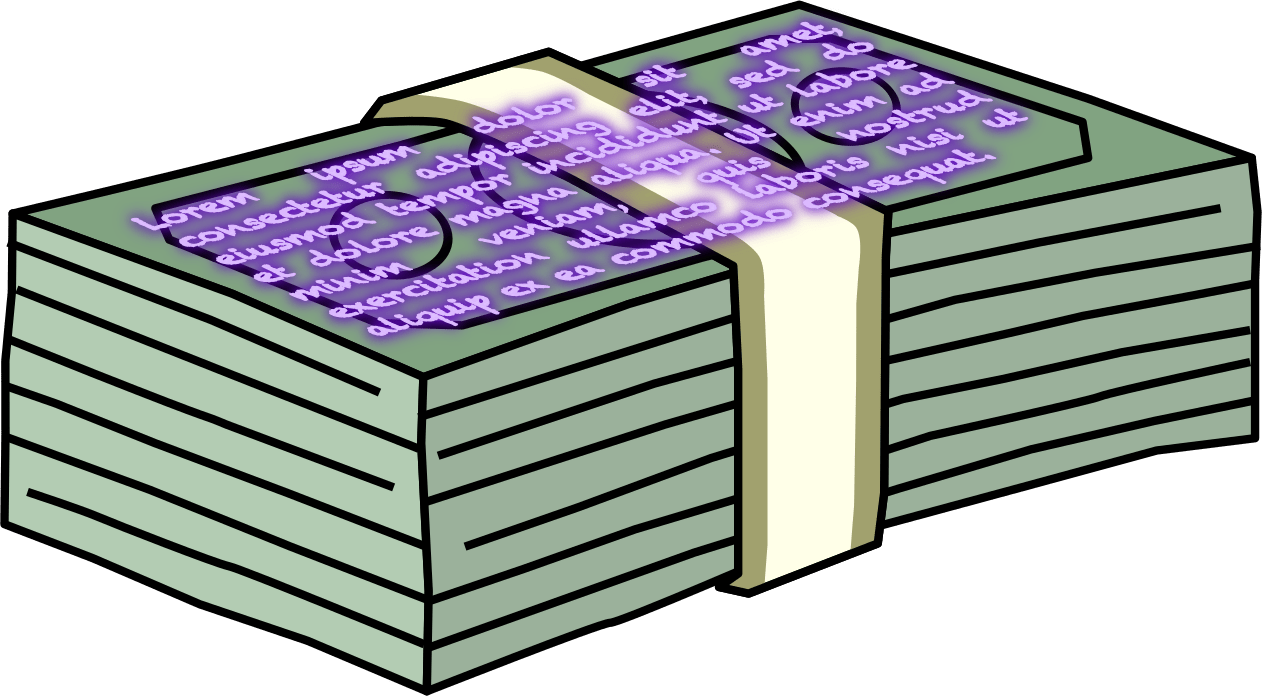
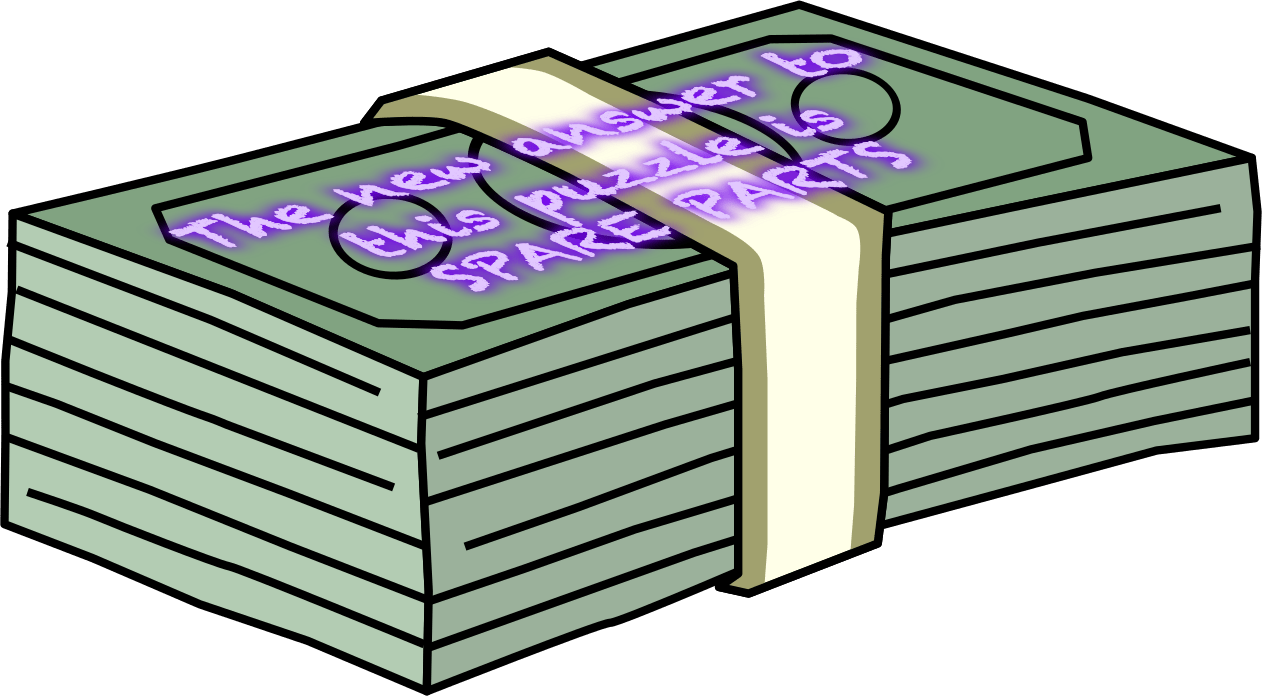
Postprod blacklight version of puzzles

Changed region(s): [[0.0927, 0.0, 0.8344, 0.5129]]

diff --git a/site/src/frontend/puzzles/index.ts b/site/src/frontend/puzzles/index.ts
@@ -1,3 +1,8 @@
+import cryptex_note_blacklight from "../../frontend/rounds/illegal_search/assets/cryptex/cryptex_note_blacklight.png";
+import candy_modal_blacklight from "../../frontend/rounds/illegal_search/assets/desk_drawer/candy_modal_blacklight.png";
+import rings_modal_blacklight from "../../frontend/rounds/illegal_search/assets/fuse_box/rings_modal_blacklight.png";
+import ledger_blacklight from "../../frontend/rounds/illegal_search/assets/rug/numberlock_box_ledger_blacklight.png";
+import money_modal_blacklight from "../../frontend/rounds/illegal_search/assets/safe/money_modal_blacklight.png";
 import DownrightBackwards from "./able-worm";
 import MagicI from "./acclaimed-file";
 import Superlatives from "./acute-ski";
@@ -5,6 +10,7 @@ import LabScrabble from "./amused-soul";
 import JustPlaneWrong from "./artistic-aztec";
 import AbsolutelyNotBalderdash from "./ashamed-tail";
 import DoableDouble from "./austere-sink";
+import { blacklightPuzzle } from "./blacklight";
 import CrossSpread from "./bony-palm";
 import ShellCorporationFour from "./bountiful-maple";
 import MellowPlanet from "./brilliant-center";
@@ -185,15 +191,43 @@ export const PUZZLES: Record<string, PuzzleDefinition> = {
 
   // The Illegal Search
   bermuda_triangle: BermudaTriangle,
+  bermuda_triangle_blacklight: blacklightPuzzle(BermudaTriangle, {
+    answer: "LIFEFORCE",
+    asset: candy_modal_blacklight,
+    assetAlt: "TODO",
+  }),
   cross_spread: CrossSpread,
   fechtbuch: Fechtbuch,
+  fechtbuch_blacklight: blacklightPuzzle(Fechtbuch, {
+    answer: "VOYAGERS",
+    asset: rings_modal_blacklight,
+    assetAlt: "TODO",
+  }),
   half_baked: HalfBaked,
   a_heap_of_clards: AHeapOfClards,
+  a_heap_of_clards_blacklight: blacklightPuzzle(AHeapOfClards, {
+    answer: "SPARE PARTS",
+    asset: money_modal_blacklight,
+    assetAlt: "TODO",
+  }),
   皇帝の暗号: 皇帝の暗号,
   jargon: Jargon,
+  jargon_blacklight: blacklightPuzzle(Jargon, {
+    answer: "BRAZIL",
+    asset: cryptex_note_blacklight,
+    assetAlt: "TODO",
+  }),
   networking_event: NetworkingEvent,
   reuse_and_recyclability: ReuseAndRecyclability,
   the_center_is_in_plain_sight: TheCenterIsInPlainSight,
+  the_center_is_in_plain_sight_blacklight: blacklightPuzzle(
+    TheCenterIsInPlainSight,
+    {
+      answer: "BROADCAST NEWS",
+      asset: ledger_blacklight,
+      assetAlt: "TODO",
+    },
+  ),
   this_is_just_a_test: ThisIsJustATest,
 
   papas_bookcase: PapasBookcase,

diff --git a/site/src/huntdata/index.ts b/site/src/huntdata/index.ts
@@ -432,11 +432,11 @@ const HUNT: Hunt = {
         { id: "isp18", unlockable_if: [{ gate_satisfied: "isg25" }, { slot_solved: "ism01" }], unlock_cost: 1 },
 
         // The next 5 puzzles are the blacklight versions of 6-10
-        { id: "isp19", unlocked_if: { gate_satisfied: "isg27" } }, // blacklight version of isp06, behind directional lock
-        { id: "isp20", unlocked_if: { gate_satisfied: "isg28" } }, // blacklight version of isp07, behind binary switch lock
-        { id: "isp21", unlocked_if: { gate_satisfied: "isg29" } }, // blacklight version of isp08, behind combination lock
-        { id: "isp22", unlocked_if: { gate_satisfied: "isg30" } }, // blacklight version of isp09, behind numeric lock
-        { id: "isp23", unlocked_if: { gate_satisfied: "isg31" } }, // blacklight version of isp10, behind word lock
+        { id: "isp19", unlocked_if: { gate_satisfied: "isg27" }, slug: "bermuda_triangle_blacklight" }, // blacklight version of isp06, behind directional lock
+        { id: "isp20", unlocked_if: { gate_satisfied: "isg28" }, slug: "fechtbuch_blacklight" }, // blacklight version of isp07, behind binary switch lock
+        { id: "isp21", unlocked_if: { gate_satisfied: "isg29" }, slug: "a_heap_of_clards_blacklight" }, // blacklight version of isp08, behind combination lock
+        { id: "isp22", unlocked_if: { gate_satisfied: "isg30" }, slug: "the_center_is_in_plain_sight_blacklight" }, // blacklight version of isp09, behind numeric lock
+        { id: "isp23", unlocked_if: { gate_satisfied: "isg31" }, slug: "jargon_blacklight" }, // blacklight version of isp10, behind word lock
 
         { id: "ism01", is_meta: true, unlocked_if: [{ gate_satisfied: "isg00" }], slug: "papas_bookcase" }, // Bookcase
         { id: "ism02", is_meta: true, unlocked_if: [{ slot_solved: "ism01" }, { gate_satisfied: "isg17" }], slug: "papas_stash" },

diff --git a/site/src/frontend/server/routes/puzzle.tsx b/site/src/frontend/server/routes/puzzle.tsx
@@ -15,6 +15,9 @@ import {
   IllegalSearchWrapper,
   IllegalSearchAnswer,
   IllegalSearchAcknowledgementBlock,
+  BlacklightIllegalSearchHeader,
+  BlacklightIllegalSearchMain,
+  BlacklightIllegalSearchWrapper,
 } from "../../components/IllegalSearchPuzzleLayout";
 import {
   MurderHeader,
@@ -99,6 +102,14 @@ const ROUND_PUZZLE_COMPONENT_MANIFESTS: Record<
     answer: IllegalSearchAnswer,
     acknowledgementBlock: IllegalSearchAcknowledgementBlock,
   },
+  illegal_search_blacklight: {
+    header: BlacklightIllegalSearchHeader,
+    main: BlacklightIllegalSearchMain,
+    wrapper: BlacklightIllegalSearchWrapper,
+    fonts: IllegalSearchFonts,
+    answer: IllegalSearchAnswer,
+    acknowledgementBlock: IllegalSearchAcknowledgementBlock,
+  },
   paper_trail: {
     main: PaperTrailMain,
     header: PaperTrailHeader,
@@ -170,6 +181,29 @@ function getComponentManifestForPuzzle(
       ROUND_PUZZLE_COMPONENT_MANIFESTS.background_check,
       overrides,
     );
+  }
+
+  if (puzzleState.round === "illegal_search") {
+    const illegalSearchEntry = Object.entries(
+      teamState.rounds.illegal_search?.slots ?? {},
+    ).find(
+      ([_slot, slotObj]: [string, { slug: string; is_meta?: boolean }]) => {
+        return slotObj.slug === slug;
+      },
+    );
+
+    if (!illegalSearchEntry) {
+      return DEFAULT_MANIFEST; // how did this get here?
+    }
+
+    const slot = illegalSearchEntry[0];
+    if (["isp19", "isp20", "isp21", "isp22", "isp23", "ism03"].includes(slot)) {
+      return Object.assign(
+        {},
+        DEFAULT_MANIFEST,
+        ROUND_PUZZLE_COMPONENT_MANIFESTS.illegal_search_blacklight,
+      );
+    }
   }
 
   const roundSpecificOverrides =

diff --git a/site/src/frontend/puzzles/blacklight.tsx b/site/src/frontend/puzzles/blacklight.tsx
@@ -1,0 +1,51 @@
+import React from "react";
+import { type PuzzleDefinition } from "./types";
+
+type BlacklightOpts = {
+  answer: string;
+  asset: string;
+  assetAlt: string;
+};
+
+export function blacklightPuzzle(
+  base: PuzzleDefinition,
+  opts: BlacklightOpts,
+): PuzzleDefinition {
+  const Puzzle = base.content.component;
+  const Solution = base.solution.component;
+
+  return {
+    ...base,
+    title: `${base.title} (Under Blacklight)`,
+    slug: `${base.slug}_blacklight`,
+    content: {
+      ...base.content,
+      component: function BlacklightPuzzle(props) {
+        return (
+          <>
+            <img
+              src={opts.asset}
+              style={{
+                maxWidth: "600px",
+                margin: "24px auto",
+                display: "block",
+              }}
+              alt={opts.assetAlt}
+            />
+            <Puzzle {...props} />
+          </>
+        );
+      },
+    },
+    solution: {
+      ...base.solution,
+      component: function BlacklightSolution(props) {
+        // TODO: blacklight-specific solution?
+        return <Solution {...props} />;
+      },
+    },
+    answer: opts.answer,
+    // TODO: blacklight-specific hints?
+    hints: [],
+  };
+}
